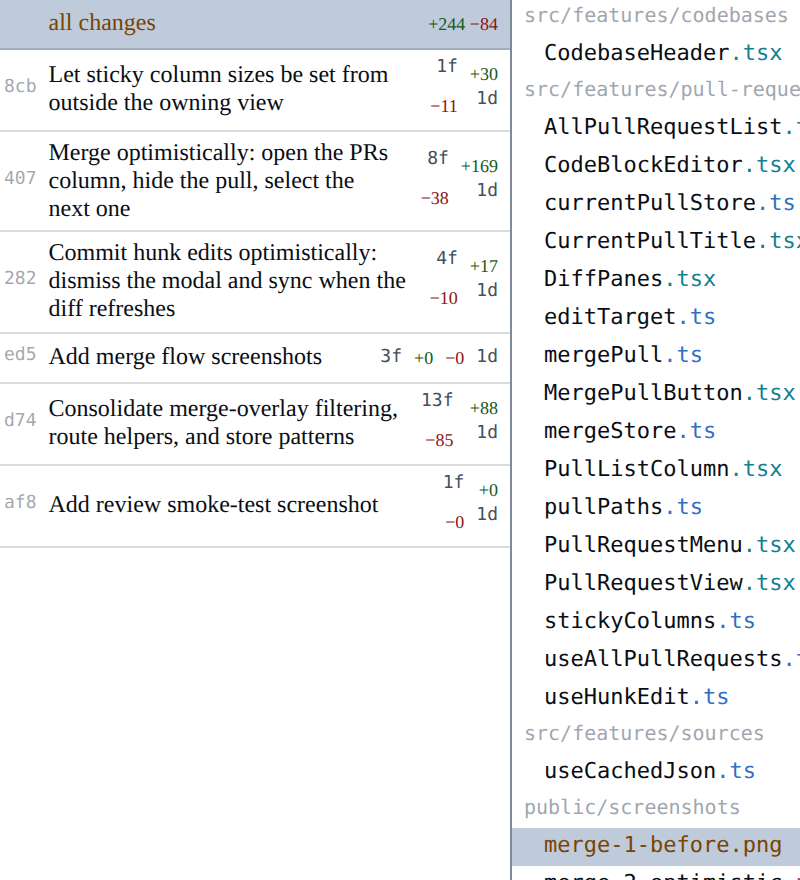
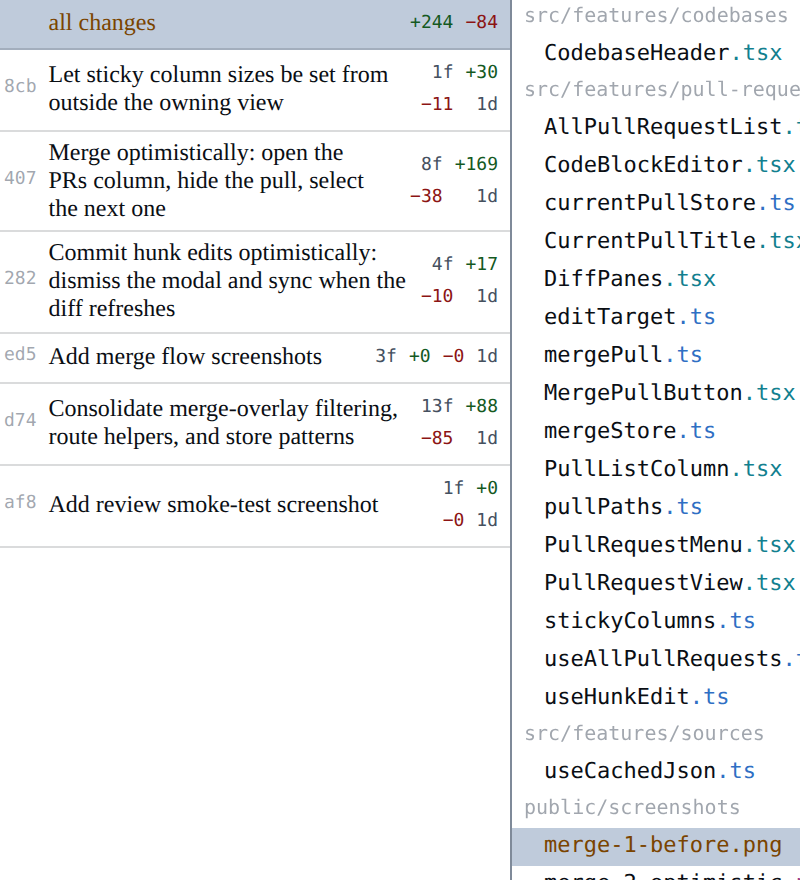
Even out the commit meta grid and drop its per-cell typography
Claude-Session: https://claude.ai/code/session_01NHKPQYeHDkq9BiityBu8oC

diff --git a/src/features/pull-requests/PullCommitColumn.tsx b/src/features/pull-requests/PullCommitColumn.tsx
@@ -1,10 +1,9 @@
 'use client';
 
 import { useEffect, useRef, useState, type ReactNode } from 'react';
-import { ChangeCountCells, ChangeCounts } from './ChangeCounts';
+import { ChangeCountCells } from './ChangeCounts';
 import type { PreviewToken } from './ColumnPreview';
 import { useColumnNav, type ColumnRow } from './columnNav';
-import { ROW_META } from './PullListRow';
 import type { ChangeSummary, CommitSummary } from './pullRequests';
 import { HoverCardTrigger } from '@/features/surface-ui/HoverCard';
 import { RelativeTime } from '@/features/surface-ui/RelativeTime';
@@ -15,6 +14,7 @@ import { useWrappedText } from '@/features/surface-ui/useWrappedText';
 const ROW = 'flex w-full items-center gap-1.5 px-1.5 py-1 text-left font-serif text-[12px] leading-[1.15]';
 const HASH = 'ml-1.5 w-[3ch] shrink-0 font-mono text-[9px]';
 const HASH_CHARS = 3;
+const META = 'grid shrink-0 items-center justify-items-end gap-x-1.5 font-mono text-[9px] leading-4 text-ink-dim';
 const COPIED_MS = 1200;
 export const WHOLE_CHANGE = 'all';
 
@@ -33,7 +33,9 @@ export function PullCommitColumn({
     <>
       <CommitRow row={rowFor(WHOLE_CHANGE)} onActivate={() => onSelect(WHOLE_CHANGE)} leading={<span aria-hidden className={HASH} />}>
         <span className="min-w-0 flex-1">all changes</span>
-        <ChangeCounts additions={change.additions} deletions={change.deletions} />
+        <span className={metaClass(false)}>
+          <ChangeCountCells additions={change.additions} deletions={change.deletions} />
+        </span>
       </CommitRow>
       {change.commits.map((commit) => (
         <CommitEntry key={commit.sha} commit={commit} row={rowFor(commit.sha)} onActivate={() => onSelect(commit.sha)} />
@@ -49,17 +51,17 @@ function CommitEntry({ commit, row, onActivate }: { commit: CommitSummary; row: 
       <span className="min-w-0 flex-1 break-words">
         <span ref={message}>{commit.message}</span>
       </span>
-      <span className={commitMetaClass(wrapped)}>
-        <span className={ROW_META}>{commit.fileCount}f</span>
+      <span className={metaClass(wrapped)}>
+        <span>{commit.fileCount}f</span>
         <ChangeCountCells additions={commit.additions} deletions={commit.deletions} />
-        <RelativeTime iso={commit.date} className={ROW_META} />
+        <RelativeTime iso={commit.date} />
       </span>
     </CommitRow>
   );
 }
 
-function commitMetaClass(wrapped: boolean): string {
-  return `grid shrink-0 justify-items-end gap-x-1.5 ${wrapped ? 'grid-cols-2' : 'grid-flow-col items-center'}`;
+function metaClass(stacked: boolean): string {
+  return `${META} ${stacked ? 'grid-cols-2' : 'grid-flow-col'}`;
 }
 
 function CommitRow({

diff --git a/src/features/pull-requests/ChangeCounts.tsx b/src/features/pull-requests/ChangeCounts.tsx
@@ -1,18 +1,18 @@
-const COUNT = 'shrink-0 text-[9px] leading-4';
+type Counts = { additions: number; deletions: number };
 
-export function ChangeCounts({ additions, deletions }: { additions: number; deletions: number }) {
+export function ChangeCounts(counts: Counts) {
   return (
-    <span className={COUNT}>
-      <span className="text-add-ink">+{additions}</span> <span className="text-del-ink">−{deletions}</span>
+    <span className="flex shrink-0 gap-x-1 text-[9px] leading-4">
+      <ChangeCountCells {...counts} />
     </span>
   );
 }
 
-export function ChangeCountCells({ additions, deletions }: { additions: number; deletions: number }) {
+export function ChangeCountCells({ additions, deletions }: Counts) {
   return (
     <>
-      <span className={`${COUNT} text-add-ink`}>+{additions}</span>
-      <span className={`${COUNT} text-del-ink`}>−{deletions}</span>
+      <span className="text-add-ink">+{additions}</span>
+      <span className="text-del-ink">−{deletions}</span>
     </>
   );
 }

diff --git a/src/features/surface-ui/useWrappedText.tsx b/src/features/surface-ui/useWrappedText.tsx
@@ -8,16 +8,22 @@ export function useWrappedText<T extends HTMLElement>(): [RefObject<T | null>, b
   useEffect(() => {
     const text = ref.current;
     if (!text) return;
+    const row = rowBox(text);
+    let width = row.clientWidth;
     const measure = () => setWrapped(text.getClientRects().length > 1);
     measure();
-    const observer = new ResizeObserver(measure);
-    observer.observe(rowBox(text));
+    const observer = new ResizeObserver(() => {
+      if (row.clientWidth === width) return;
+      width = row.clientWidth;
+      measure();
+    });
+    observer.observe(row);
     return () => observer.disconnect();
   }, []);
   return [ref, wrapped];
 }
 
-// Measuring the text's own box re-triggers on the relayout it causes, flickering forever.
+// Re-measuring on the row's own height change would undo the wrap that caused it, forever.
 function rowBox(text: HTMLElement): HTMLElement {
   return text.parentElement?.parentElement ?? text.parentElement ?? text;
 }
